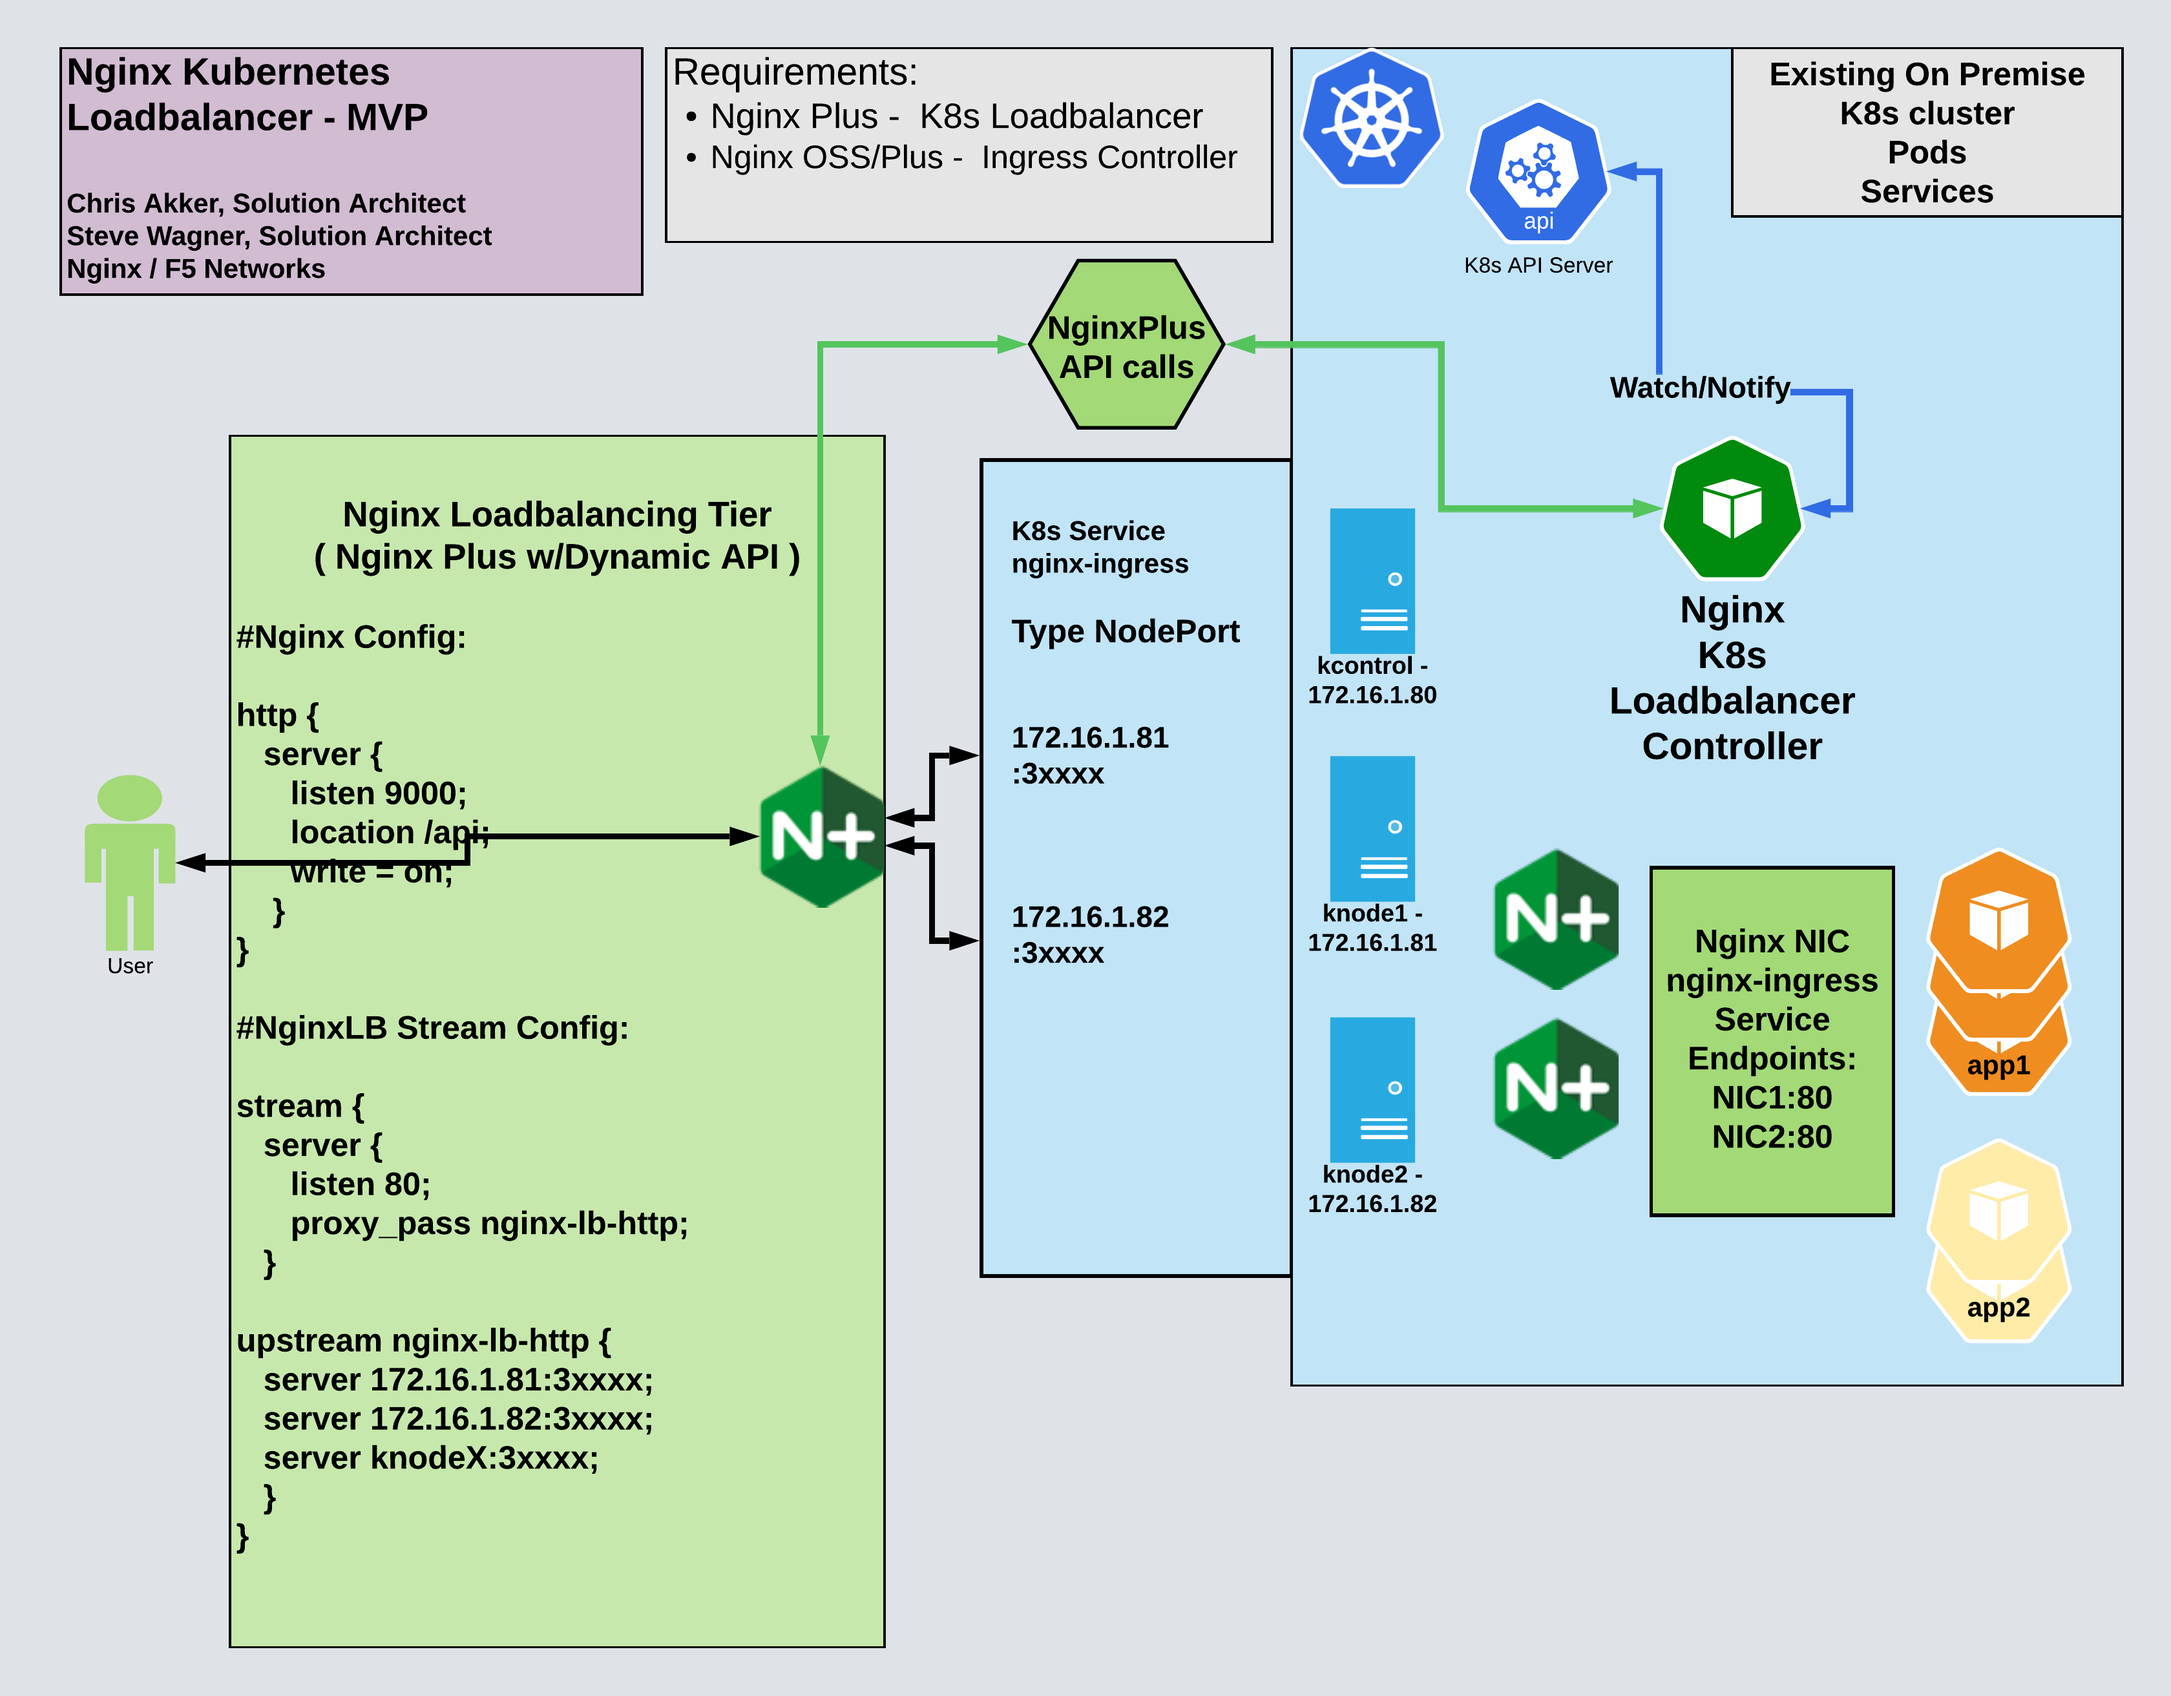
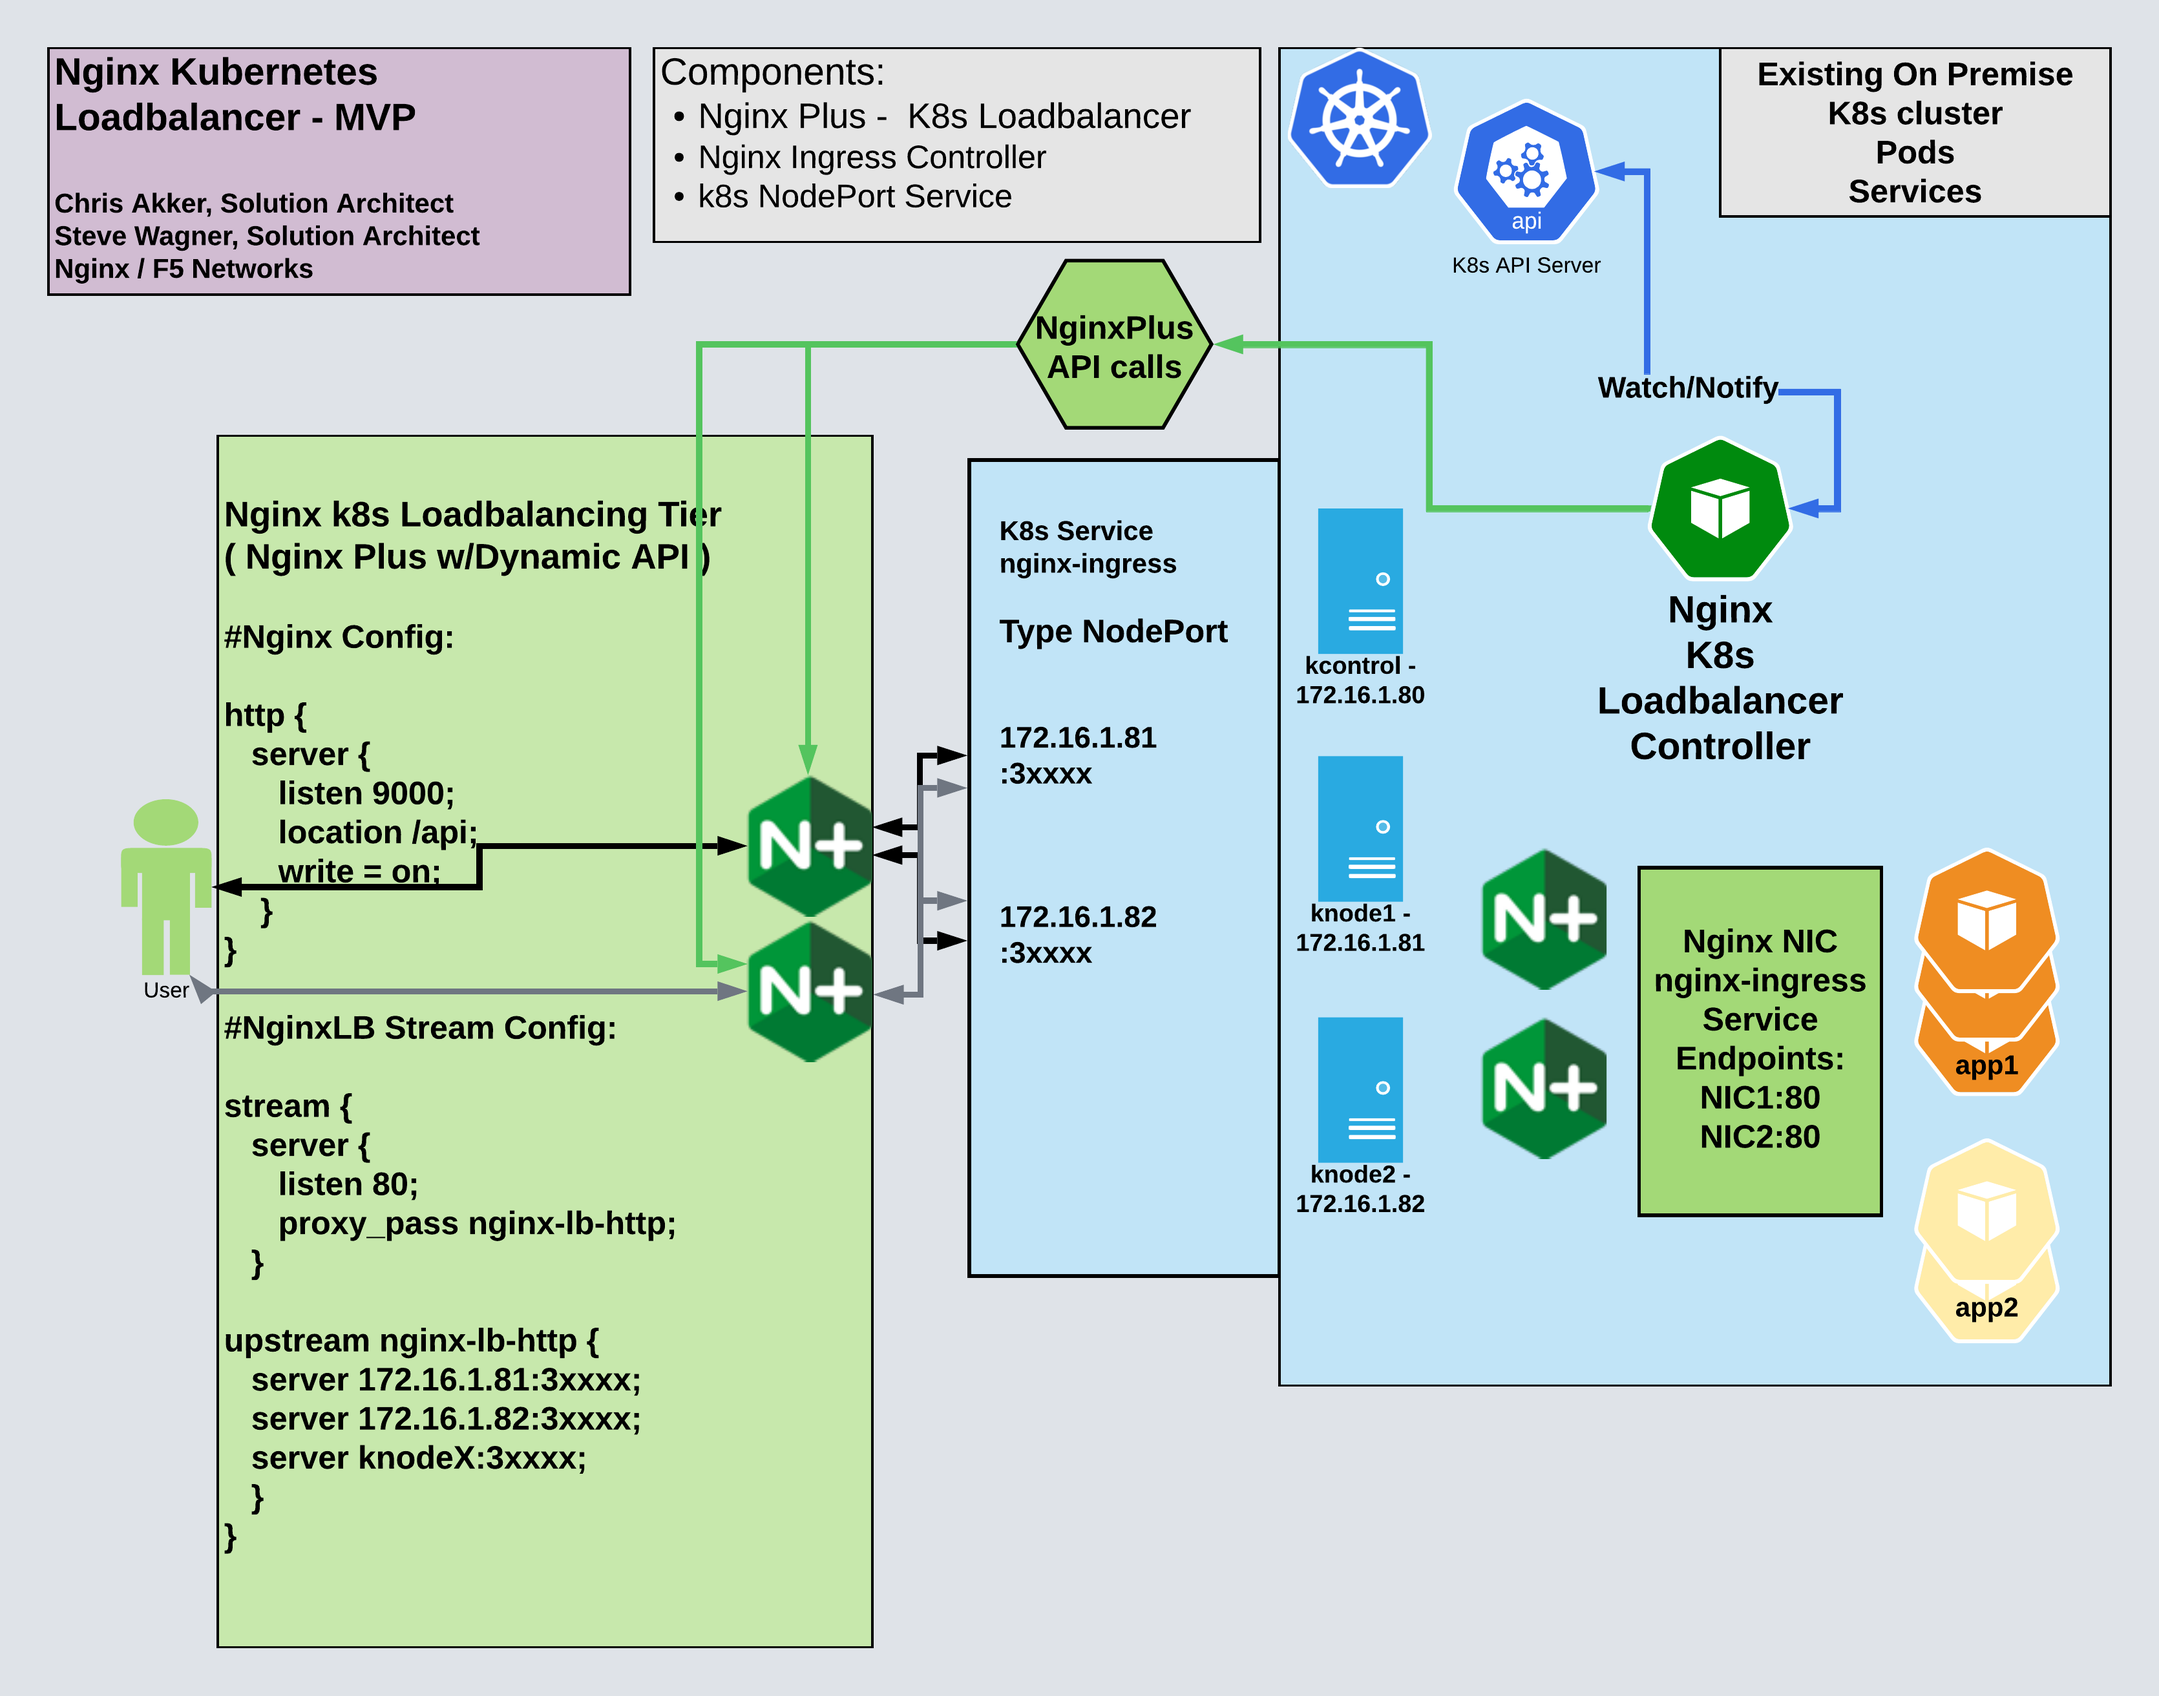
update docs

diff --git a/docs/NginxKubernetesLoadbalancer.md b/docs/NginxKubernetesLoadbalancer.md
@@ -15,6 +15,7 @@
 - This is will synchronize the K8s Service Endpoint list, with the Nginx LB server's Upstream block server list.  
 - The primary use case is for tracking the NodePort IP:Port definitions for the Nginx Ingress Controller's `nginx-ingress Service`.  
 - With the NginxPlus Server located external to the K8s cluster, this new controller LB function would provide an alternative TCP "Load Balancer Service" for On Premises k8s clusters, which do not have access to a Cloud providers "Service Type LoadBalancer".
+- Make the solution a native Kubernetes Component, configured and managed with standard K8s tools.
 
 <br/>
 
@@ -34,7 +35,7 @@ This is often called "NLB", a term used in AWS for Network Load Balancer, but fu
 
 >**This Solution uses NGINX to provide an alternative to #3, the TCP loadbalancing from PublicIP to k8s NodePort.**
 
-Note: This solution is not for Cloud-based K8s clusters, only On Premises K8s clusters.
+Note: This solution is not for Cloud-based K8s clusters, it is only for On Premises K8s clusters.
 
 <br/>
 
@@ -62,7 +63,11 @@ Alternatives:
 
 However, most of these alternatives are proprietary, open source / unsupported, competitive, or have other customer concerns.
 
+<br/>
+
 >**`NGINX PLUS is a viable alternative for most customers.`**
+
+<br/>
 
 Why not Nginx OpenSource?  Nginx Open Source does not have the API endpoint and service for managing Upstream Server block configurations.
 
@@ -81,6 +86,7 @@ Why not Nginx OpenSource?  Nginx Open Source does not have the API endpoint and 
 - Plus API - the standard Nginx Plus API service that is running on the Nginx LB Server
 - Nginx Plus Go Client - software that communicates with the Nginx LB Server
 - Upstream - the IP:Port list of servers that Nginx will Load Balance traffic to at Layer 4 TCP using the stream configuration
+- Fan-out support - the ability to run 2 or more Nginx LB servers external to the cluster for High Availability
 
 <br/>
 
@@ -89,50 +95,54 @@ Why not Nginx OpenSource?  Nginx Open Source does not have the API endpoint and 
 <br/>
 
 Preface -  Define access parameters for NKL Controller to communicate with NginxPlus instance:
-- IP address:port or FQDN of the target Nginx LB Server
+- IP address:port of the target Nginx LB Server(s)
 - Optional auth:  SSL certificate/key
 - Optional auth:  IP allow list
 - Optional auth:  HTTP Auth userid/password
 - Optional auth:  JWT Token
 
 1. Initialization:
+
 - Define the name of the target Upstream Server Block
 - "nginx-lb-http" or "nginx-lb-https" should be the default server block names, returns error if these do not exist
 - Using the Nginx Plus Go Client library, make an API query to NginxPlus LB server for current Upstream list
 - API query to K8s apiserver for list of Ingress Controller Endpoints
 - Reconcile the two lists, making changes to Nginx Upstreams to match the Ingress Endpoints ( add / delete Upstreams as needed to converge the two lists )
 
-2. Runtime:
-- Periodic check - API query for the list of Servers in the Upstream block, using the NginxPlus API ( query interval TBD )
-- IP:port definition
-- other possible metadata: status, connections, response_time, etc
-- Keep a copy of this list in memory, if state is required
+2. Configuration Requirements:
 
-3. Register the LB Controller with the K8s watcher Service, subscribe to Notifications for changes to the nginx-ingress Service Endpoints.
+- List of Nginx LB server IP:Ports, comma separated
+- List of K8s worker nodes
+- List of Nginx LB server upstream block names, current defaults are "nginx-lb-http" and "nginx-lb-https" - `nginxlb.conf` for examples
+- Nodeport Definition file, port names MUST match the upstream block names in the correct format, prefixed with `nkl-`, as in `nkl-nginx-lb-http` and `nkl-nginx-lb-https`
+
+3. Runtime:
+
+- Register the LB Controller with the K8s watcher Service, subscribe to Notifications for changes to the nginx-ingress Service Endpoints.
 - Using the Nginx Plus Go Client libraries, modify Upstream server entries, based on K8s NodePort Service endpoint "Notification" changes
 - Add new Endpoint to Upstream Server list on k8s Notify
-- Remove deleted Endpoints to Upstream list, using the Nginx Plus "Drain" function, leaving existing TCP connections to close gracefully on K8s Notify delete.
-- Create and Set Drain_wait timer on Draining Upstream servers
-- Remove Draining Upstream servers after Drain_wait timer expires
-- Log changes to debug, nginx error.log, or custom access.log as appropriate
+- Remove deleted Endpoints to Upstream list on k8s Notify
+- Log changes to debug, nginx error.log, custom access.log and controller log as appropriate
 
-4. Query the K8s api server, for the list of Endpoints for the "nginx-ingress" Service object.  This is the list of NodePorts where the Nginx Ingress Controller is listening.
-- Keep a copy of this list in memory, if state is desired
+4. Main program
 
-5. Main program 
 - Compare the list of Upstream servers from the Nginx API call, with the list nginx-ingress Service Endpoints from the K8s API call
 - Calculate the difference in the list, and create new Nginx API calls to update the Upstream list, adding or removing the changes needed to mirror the nginx-ingress Service Endpoints list
+- Periodic check - API query for the list of Servers in the Upstream block, using the NginxPlus API ( query interval TBD )
+- IP:port definition
+- other possible metadata collection: status, connections, response_time, etc
+- Register the LB Controller for liveness probes, so K8s has and endpoint to query for up/down status.
 - Log these changes
 
-6. Optional:  Make Nginx API calls to update the entire Upstream list, regardless of what the existing list contains.  *Nginx will allow for the addition of duplicate server to the upstream block using the API, so at some point a process to "clean up and verify" the upstream list should be considered.  It is possible that the Nginx-Plus-Go_Client already does this function.*
+6. Optional:  Add additional features/functions here, beyond MVP.
 
 <br/>
 
-## PM/PD Suggestion - to build this new Controller, use the existing Nginx Ingress Controller framework/code, to create this new k8s LB Controller, leveraging the Enterprise class, supportable code Nginx already has on hand.  Or perhaps, add this Loadbalancer solution as a new Feature to the exising Ingress Controller ( NIC, after all, is already watching the nginx-ingress namespace and services ).
+## PM/PD Suggestion - to build this new Controller, use the existing Nginx Ingress Controller framework/code, to create this new k8s LB Controller, leveraging the Enterprise class, supportable code Nginx already has on hand.  Or perhaps, add this Loadbalancer solution as a new Feature to the exising Ingress Controller ( NIC, after all, it is already watching the nginx-ingress namespace and services ).
 
 <br/>
 
-## Example Nginx Plus API requests for Upstream block changes
+### Example Nginx Plus API requests for Upstream block changes
 
 <br/>
 

diff --git a/README.md b/README.md
@@ -2,21 +2,73 @@
 
 # nginx-k8s-edge-controller
 
+## Welcome to the Nginx Kubernetes Load Balancer project !
+
+<br/>
+
+This repo contains source code and documents for a new Kubernetes Controller, that provides TCP load balancing external to a k8s cluster.  It is a replacement for a Cloud Providers "Service Type Loadbalancer", that is missing from On Premises Kubernetes Clusters.
+
+<br/>
+
+## Overview
+
+- Create a new K8s Controller, that will monitor specified k8s Service Endpoints, and then send API calls to an external NginxPlus server to manage Nginx Upstream server blocks.  
+- This is will synchronize the K8s Service Endpoint list, with the Nginx LB server's Upstream block server list.  
+- The primary use case is for tracking the NodePort IP:Port definitions for the Nginx Ingress Controller's `nginx-ingress Service`.  
+- With the NginxPlus Server located external to the K8s cluster, this new controller LB function would provide an alternative TCP "Load Balancer Service" for On Premises k8s clusters, which do not have access to a Cloud providers "Service Type LoadBalancer".
+- Make the solution a native Kubernetes Component, configured and managed with standard K8s tools.
+
+<br/>
+
+## Reference Diagram
+
+<br/>
+
+![NGINX LB Server](docs/media/nginxlb-nklv1.png)
+
+<br/>
+
+## Sample Screenshots of Runtime
+
+### Configuration with 2 Nginx LB Servers defined (HA):
+
+![NGINX LB ConfigMap](docs/media/nkl-pod-configmap.png)
+
+<br/>
+
+### Nginx LB Server Dashboard and Logging
+
+![NGINX LB Create Nodeport](docs/media/nkl-create-nodeport.png)
+
+Legend:
+- Red - kubectl commands
+- Blue - nodeport and upstreams for http traffic
+- Indigo - nodeport and upstreams for https traffic
+- Green - logs for api calls to LB Server #1
+- Orange - Nginx LB Server upstream dashboard details
+- Kubernetes nodes are 10.1.1.8 and 10.1.1.10
+
+<br/>
+
 ## Requirements
 
+Please see the /docs folder for detailed documentation.
 
 ## Installation
 
+Please see the /docs folder for detailed documentation.
 
-## Usage
-
+<br/>
 
 ## Development
 
+No contributions are being accepted at this time.
 Read the [`CONTRIBUTING.md`](https://github.com/nginxinc/nginx-k8s-edge-controller/blob/main/CONTRIBUTING.md) file.
+
+<br/>
 
 ## License
 
 [Apache License, Version 2.0](https://github.com/nginxinc/nginx-k8s-edge-controller/blob/main/LICENSE)
 
-&copy; [F5 Networks, Inc.](https://www.f5.com/) 2022
+&copy; [F5 Networks, Inc.](https://www.f5.com/) 2023
